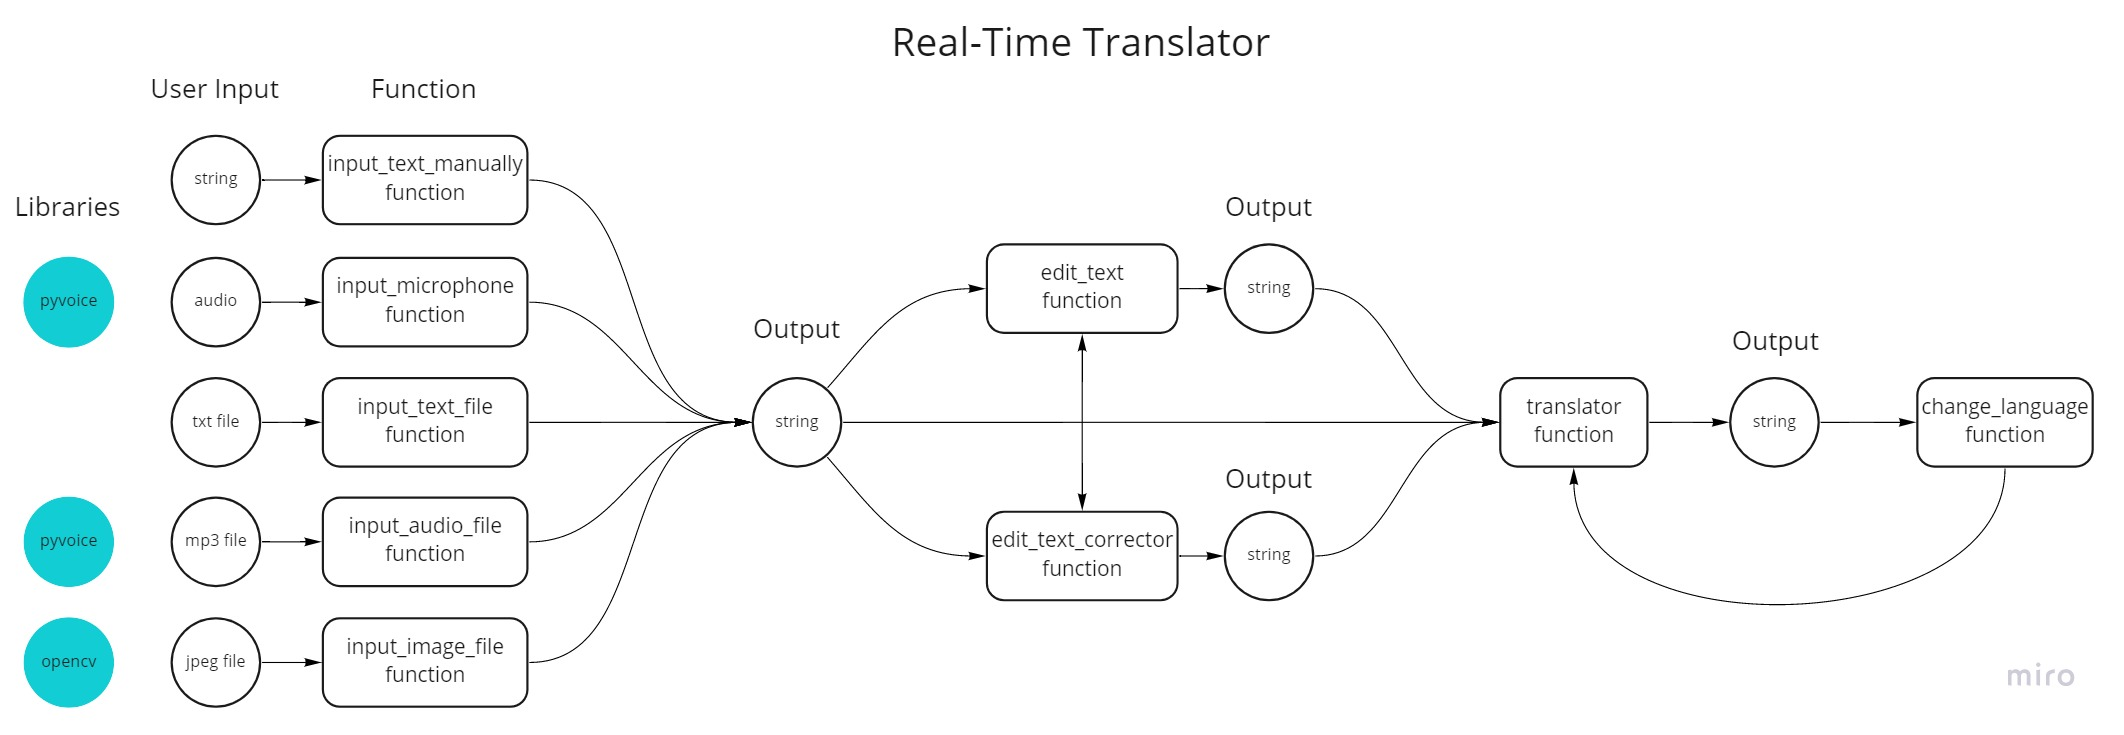
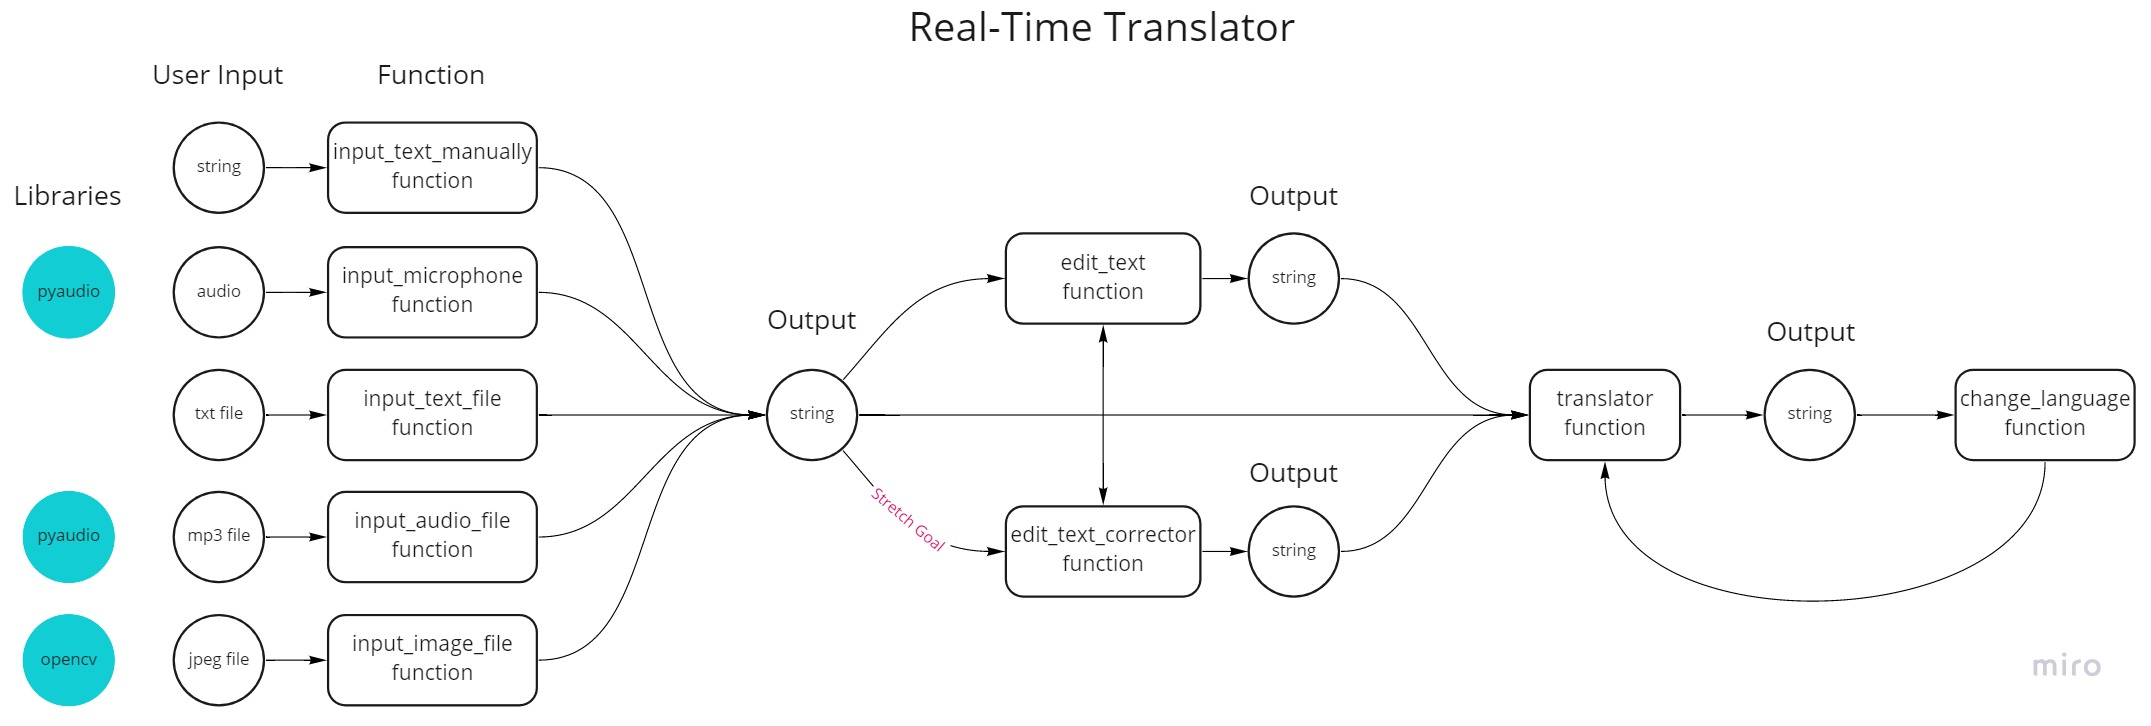
ReadMe Updated

diff --git a/requirements.md b/requirements.md
@@ -36,11 +36,12 @@ Why should we care about your product?
 ### Stretch Goals
 
 - Text mistake corrector.
-- Translate from video file.
+- Audio file output.
 - Detect the language without selection.
+- Translate from video file.
 - Detect text from live cam.
 - Insert a file with many languages and translate it to one.
-- Hosting to web server
+- Hosting to web server.
 
 &nbsp;
 
